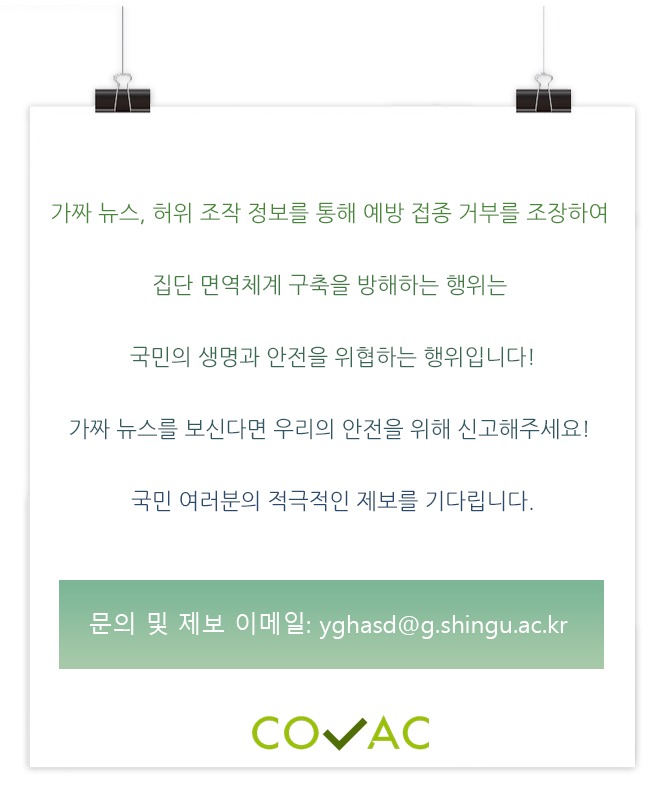
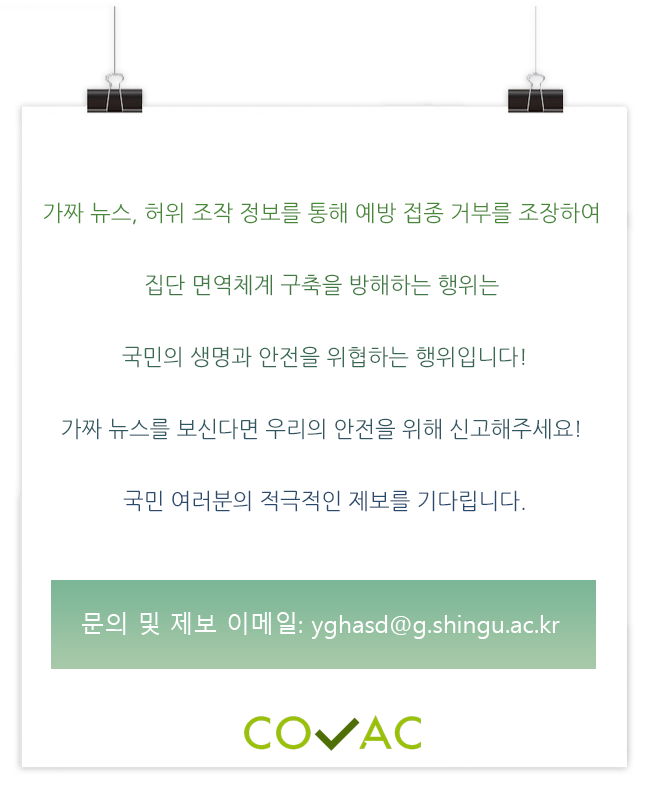
공지사항 2,3페이지 사진 크기 수정

diff --git a/announce_2.html b/announce_2.html
@@ -72,7 +72,7 @@ COVAC로고 누르면 메인 화면으로 이동하게 링크 기능 추가
 								<div class="board_header_ann_2">
 									<h1 style="color:#676767;">문의 및 제보</h1>
 								</div>
-								<img src="./src/assets/ann_2.png" alt="ann_2" style="width:100%; margin-top:-70px; margin-left:-10px;">
+								<img src="./src/assets/ann_2.png" alt="ann_2" style="width:100%; margin-top:-65px; margin-left:-10px;">
 							</div>
 						</section>
 						<div id="footer_section_container">

diff --git a/announce_3.html b/announce_3.html
@@ -72,7 +72,7 @@ COVAC로고 누르면 메인 화면으로 이동하게 링크 기능 추가
 								<div class="board_header_ann_2">
 									<h1 style="color:#676767;">후원 정보</h1>
 								</div>
-								<img src="./src/assets/ann_3.png" alt="ann_2" style="width:105%; margin-top:-65px; margin-left:-10px;">
+								<img src="./src/assets/ann_3.png" alt="ann_2" style="width:100%; margin-top:-65px; margin-left:-10px;">
 							</div>
 						</section>
 						<div id="footer_section_container">

diff --git a/style.css b/style.css
@@ -140,6 +140,11 @@ url('/fonts/NanumBarunGothic.woff') format('woff');}
 		padding-left: 140px;
 		line-height: 35px;
 	}
+	.content_container_ann {
+		position: relative;
+	  text-align: center;
+	  color: #FAFAFA;
+	}
 }
 
 /********************************** COMMON ************************************/
